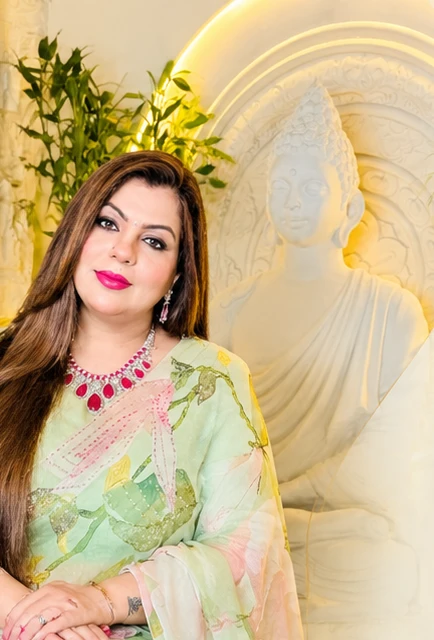
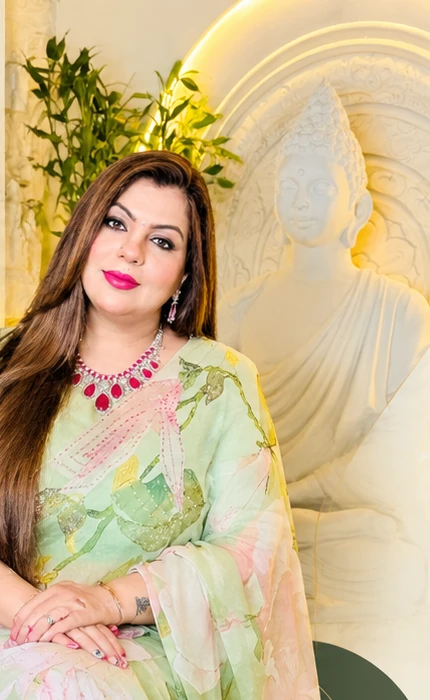
Brainology: real photo in why section, smaller name tags off her face, client voices photo column and no WhatsApp on phones

diff --git a/public/landing/_shared/styles.css b/public/landing/_shared/styles.css
@@ -4609,6 +4609,67 @@ body.lp-v5 .wy3-copy { padding-bottom: 60px; }
 }
 @media (max-width: 640px) { body.lp-v5 .wy3-photo { height: 240px; } }
 /* =============================================================================================================
+   Brainology fixes (Oct 13 n): smaller name tags that never sit on her face; client voices with a slimmer photograph
+   column (her whole figure, not a close crop) and no WhatsApp button on phones.
+   ============================================================================================================= */
+
+/* ---- Name tags: one small, quiet pill. ---- */
+body.lp-v5 .m5-name, body.lp-v5 .a6-photo figcaption { gap: 0; padding: 6px 16px 7px; border-radius: 12px; }
+body.lp-v5 .m5-name strong, body.lp-v5 .a6-photo strong { font-size: 16px; line-height: 1.2; }
+body.lp-v5 .m5-name span, body.lp-v5 .a6-photo span { font-size: 8.5px; letter-spacing: 0.18em; }
+body.lp-v5 .m5-name { left: 44%; bottom: 18px; transform: translateX(-50%); }
+body.lp-v5 .a6-photo figcaption { bottom: 12px; }
+
+/* ---- Client voices: slimmer photograph column so her figure shows, not a close-up. ---- */
+body.lp-v5 .cv4 { grid-template-columns: 440px minmax(0, 1fr); }
+body.lp-v5 .cv4-visual { min-height: 640px; }
+body.lp-v5 .cv4-visual img { object-position: 50% 0; }
+body.lp-v5 .cv4-name { width: 78%; height: 130px; padding-bottom: 20px; }
+body.lp-v5 .cv4-name span { font-size: clamp(30px, 2.2vw, 40px); }
+body.lp-v5 .cv4-name small { font-size: 9px; }
+body.lp-v5 .cv4-main { padding: 40px max(3vw, 28px) 26px 40px; }
+@media (max-width: 1240px) {
+  body.lp-v5 .cv4 { grid-template-columns: 360px minmax(0, 1fr); }
+  body.lp-v5 .cv4-name { height: 112px; padding-bottom: 16px; }
+  body.lp-v5 .cv4-name span { font-size: 30px; }
+}
+@media (max-width: 900px) {
+  body.lp-v5 .cv4 { grid-template-columns: minmax(0, 1fr); }
+  body.lp-v5 .cv4-visual { min-height: 0; height: 320px; }
+  body.lp-v5 .cv4-visual img { object-position: 50% 4%; }
+  body.lp-v5 .cv4-name { width: auto; height: auto; padding: 5px 14px 6px; }
+  body.lp-v5 .cv4-name span { font-size: 22px; }
+  body.lp-v5 .cv4-name small { font-size: 7.5px; }
+}
+
+/* ---- Phones: name tags sit on the bottom edge of the photograph, clear of her face. ---- */
+@media (max-width: 900px) {
+  body.lp-v5 .cv4-name { left: 50%; right: auto; bottom: 10px; transform: translateX(-50%); white-space: nowrap; }
+  body.lp-v5 .a6-photo figcaption { left: 50%; bottom: 10px; transform: translateX(-50%); padding: 5px 14px 6px; }
+  body.lp-v5 .a6-photo strong { font-size: 15px; }
+  body.lp-v5 .a6-photo img { object-position: 30% 8%; }
+  body.lp-v5 .m5-name { left: 50%; bottom: 10px; padding: 5px 14px 6px; }
+  body.lp-v5 .m5-name strong { font-size: 15px; }
+}
+@media (max-width: 640px) {
+  body.lp-v5 .cv4-visual { height: 300px; }
+  /* No WhatsApp button here on phones; the floating button is always at hand. */
+  body.lp-v5 .cv4-act { display: none; }
+  body.lp-v5 .cv4-list { margin-top: 14px; }
+}
+
+/* Second pass. */
+body.lp-v5 .cv4-film { height: 210px; }
+body.lp-v5 .cv4-film img { object-position: 50% 38%; }
+body.lp-v5 .wy3-photo { -webkit-mask-image: radial-gradient(56% 50% at 50% 50%, #000 60%, transparent 100%); mask-image: radial-gradient(56% 50% at 50% 50%, #000 60%, transparent 100%); }
+@media (max-width: 1240px) { body.lp-v5 .cv4-film { height: 180px; } }
+@media (max-width: 900px) {
+  body.lp-v5 .cv4-name, body.lp-v5 .a6-photo figcaption { left: auto; right: 12px; bottom: 12px; transform: none; }
+  body.lp-v5 .cv4-film { height: 160px; }
+}
+@media (max-width: 820px) { body.lp-v5 .wy3-photo { -webkit-mask-image: none; mask-image: none; } }
+@media (min-width: 1241px) { body.lp-v5 .cv4-list { max-width: 1200px; } body.lp-v5 .cv4-film { height: 240px; } body.lp-v5 .cv4-film img { object-position: 50% 46%; } }
+/* =============================================================================================================
    Brainology WhatsApp actions (Oct 13 k): one refined, modest pill everywhere. Deep green on light sections, soft
    gold on dark ones; label first, a small WhatsApp disc at the end.
    ============================================================================================================= */

diff --git a/landing-pages/review-v5/fix14.css b/landing-pages/review-v5/fix14.css
@@ -1,0 +1,61 @@
+/* =============================================================================================================
+   Brainology fixes (Oct 13 n): smaller name tags that never sit on her face; client voices with a slimmer photograph
+   column (her whole figure, not a close crop) and no WhatsApp button on phones.
+   ============================================================================================================= */
+
+/* ---- Name tags: one small, quiet pill. ---- */
+body.lp-v5 .m5-name, body.lp-v5 .a6-photo figcaption { gap: 0; padding: 6px 16px 7px; border-radius: 12px; }
+body.lp-v5 .m5-name strong, body.lp-v5 .a6-photo strong { font-size: 16px; line-height: 1.2; }
+body.lp-v5 .m5-name span, body.lp-v5 .a6-photo span { font-size: 8.5px; letter-spacing: 0.18em; }
+body.lp-v5 .m5-name { left: 44%; bottom: 18px; transform: translateX(-50%); }
+body.lp-v5 .a6-photo figcaption { bottom: 12px; }
+
+/* ---- Client voices: slimmer photograph column so her figure shows, not a close-up. ---- */
+body.lp-v5 .cv4 { grid-template-columns: 440px minmax(0, 1fr); }
+body.lp-v5 .cv4-visual { min-height: 640px; }
+body.lp-v5 .cv4-visual img { object-position: 50% 0; }
+body.lp-v5 .cv4-name { width: 78%; height: 130px; padding-bottom: 20px; }
+body.lp-v5 .cv4-name span { font-size: clamp(30px, 2.2vw, 40px); }
+body.lp-v5 .cv4-name small { font-size: 9px; }
+body.lp-v5 .cv4-main { padding: 40px max(3vw, 28px) 26px 40px; }
+@media (max-width: 1240px) {
+  body.lp-v5 .cv4 { grid-template-columns: 360px minmax(0, 1fr); }
+  body.lp-v5 .cv4-name { height: 112px; padding-bottom: 16px; }
+  body.lp-v5 .cv4-name span { font-size: 30px; }
+}
+@media (max-width: 900px) {
+  body.lp-v5 .cv4 { grid-template-columns: minmax(0, 1fr); }
+  body.lp-v5 .cv4-visual { min-height: 0; height: 320px; }
+  body.lp-v5 .cv4-visual img { object-position: 50% 4%; }
+  body.lp-v5 .cv4-name { width: auto; height: auto; padding: 5px 14px 6px; }
+  body.lp-v5 .cv4-name span { font-size: 22px; }
+  body.lp-v5 .cv4-name small { font-size: 7.5px; }
+}
+
+/* ---- Phones: name tags sit on the bottom edge of the photograph, clear of her face. ---- */
+@media (max-width: 900px) {
+  body.lp-v5 .cv4-name { left: 50%; right: auto; bottom: 10px; transform: translateX(-50%); white-space: nowrap; }
+  body.lp-v5 .a6-photo figcaption { left: 50%; bottom: 10px; transform: translateX(-50%); padding: 5px 14px 6px; }
+  body.lp-v5 .a6-photo strong { font-size: 15px; }
+  body.lp-v5 .a6-photo img { object-position: 30% 8%; }
+  body.lp-v5 .m5-name { left: 50%; bottom: 10px; padding: 5px 14px 6px; }
+  body.lp-v5 .m5-name strong { font-size: 15px; }
+}
+@media (max-width: 640px) {
+  body.lp-v5 .cv4-visual { height: 300px; }
+  /* No WhatsApp button here on phones; the floating button is always at hand. */
+  body.lp-v5 .cv4-act { display: none; }
+  body.lp-v5 .cv4-list { margin-top: 14px; }
+}
+
+/* Second pass. */
+body.lp-v5 .cv4-film { height: 210px; }
+body.lp-v5 .cv4-film img { object-position: 50% 38%; }
+body.lp-v5 .wy3-photo { -webkit-mask-image: radial-gradient(56% 50% at 50% 50%, #000 60%, transparent 100%); mask-image: radial-gradient(56% 50% at 50% 50%, #000 60%, transparent 100%); }
+@media (max-width: 1240px) { body.lp-v5 .cv4-film { height: 180px; } }
+@media (max-width: 900px) {
+  body.lp-v5 .cv4-name, body.lp-v5 .a6-photo figcaption { left: auto; right: 12px; bottom: 12px; transform: none; }
+  body.lp-v5 .cv4-film { height: 160px; }
+}
+@media (max-width: 820px) { body.lp-v5 .wy3-photo { -webkit-mask-image: none; mask-image: none; } }
+@media (min-width: 1241px) { body.lp-v5 .cv4-list { max-width: 1200px; } body.lp-v5 .cv4-film { height: 240px; } body.lp-v5 .cv4-film img { object-position: 50% 46%; } }

diff --git a/public/landing/brainology/index.html b/public/landing/brainology/index.html
@@ -79,7 +79,7 @@
     </div>
   </section><section class="stories-band cv4" id="stories" aria-labelledby="stories-title">
     <div class="cv4-visual" aria-hidden="true">
-      <img src="../_shared/hero/cv-narayani.webp" alt="" width="434" height="640" loading="lazy">
+      <img src="../_shared/hero/cv-narayani.webp" alt="" width="430" height="700" loading="lazy">
       <p class="cv4-name"><span>Narayani Garg</span><small>Psychic · Spiritual Mentor</small></p>
     </div>
     <div class="cv4-main">
